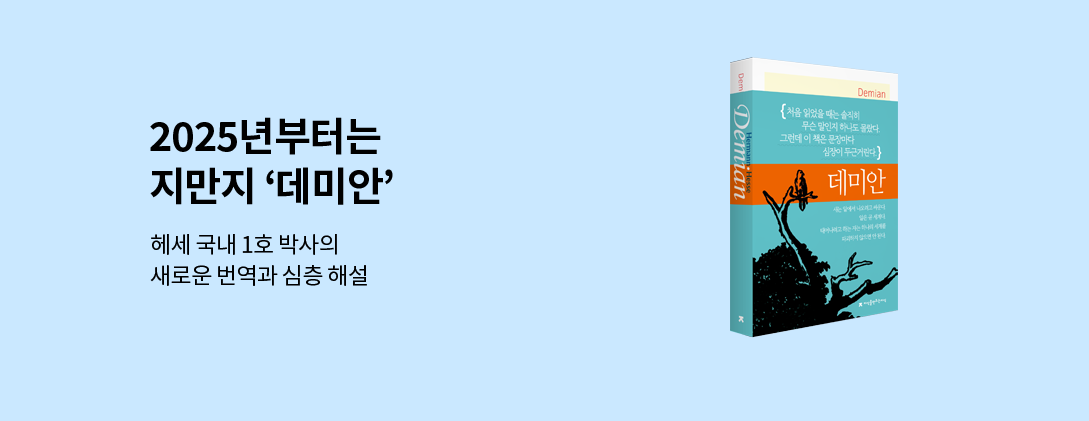
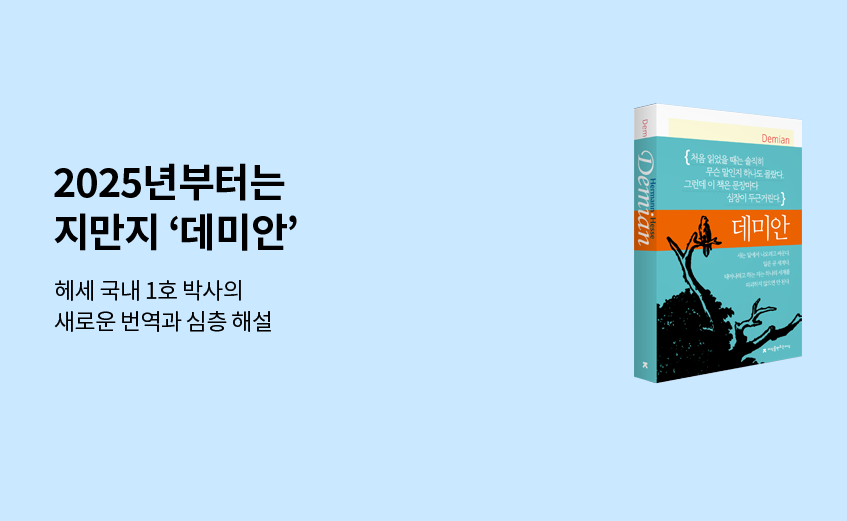
enhance: 메인화면 배너 크기 설정 변경, 배너 이미지 변경

Changed region(s): [[0.6446, 0.1235, 0.9516, 0.8029], [0.0614, 0.2779, 0.3684, 0.4941], [0.0614, 0.5249, 0.3377, 0.6793]]

diff --git a/bible_vue/src/components/MainPage/components/Main.vue b/bible_vue/src/components/MainPage/components/Main.vue
@@ -11,12 +11,12 @@
       <div class="carousel">
         <div class="main-image" :style="{ backgroundImage: `url(${images[currentSlide]})` }"
             @touchstart="touchStart" @touchmove="touchMove" @touchend="touchEnd"></div>
-        
-        <div class="pagination">
-          <span v-for="(image, index) in images" :key="index" class="dot" 
-              :class="{ active: currentSlide === index }" @click="setSlide(index)"></span>
-        </div>             
       </div>
+      <div class="pagination">
+        <span v-for="(image, index) in images" :key="index" class="dot" 
+            :class="{ active: currentSlide === index }" @click="setSlide(index)"></span>
+      </div>             
+      
 
       <div class="main-best">
         <h3>베스트 셀러</h3>
@@ -151,19 +151,22 @@ body, ul, li {
 
 /* Main Content */
 .carousel{
+   display: flex;
+  justify-content: center; /* 가운데 정렬 */
+  align-items: center;
   width: 100%;
   max-width: 100%;
   overflow: hidden;
-  margin: 0;
+  margin-top: 5px;
   padding: 0;
 }
 
 .main-image {
-  width: auto;
-  height: 50vh; /* 뷰포트 높이의 50%로 설정 */
+  height: 100%;
+  width: 150%;
   background-color: #f0f0f0;
   border-radius: 8px;
-  background-size: cover;
+  background-size: contain;
   background-position: center;
   transition: background-image 0.3s ease;
 }
@@ -172,26 +175,29 @@ body, ul, li {
   display: flex;
   justify-content: center;
   align-items: center;
-  margin-top: 16px;
-  gap: 12px;
+  gap: 0%;
+  height: 1px;
+  margin: 0px;
+  border-radius: 0%;
 }
 
 .dot {
-  width: 12px;
-  height: 12px;
+  width: 5px;
+  height: 5px; 
   background-color: #ccc;
   border-radius: 0%;
   cursor: pointer;
   transition: background-color 0.3s ease, transform 0.3s ease;
+  transform: scale(0.8);
 }
 
 .dot.active {
-  background-color: #333; /* 현재 활성화된 슬라이드 색상 */
-  transform: scale(1.3); /* 활성화된 점을 커지게 */
+  background-color: #333;
+  transform: scale(1);
 }
 
 .dot:not(.active):hover {
-  background-color: #bbb; /* 비활성화된 상태에서 마우스 오버 시 */
+  background-color: #bbb;
 }
 
 /* 모바일 최적화 */
@@ -201,14 +207,10 @@ body, ul, li {
     border-radius: 0;
   }
 
-  .pagination {
-    margin-top: 5px;
-    gap: 6px;
-  }
-
   .dot {
-    width: 6px;
+    width: 1px;
     height: 6px;
+    margin-bottom: 40px;
   }
 }
 
@@ -279,6 +281,7 @@ body, ul, li {
 }
 .main-best h3{
   margin: 15px;
+  margin-top: 30px;
 }
 
 /* 모바일에서 책 아이템 더 적게 표시 */

diff --git a/bible_vue/src/components/MainPage/components/Header.vue b/bible_vue/src/components/MainPage/components/Header.vue
@@ -22,7 +22,7 @@
         </button>
       </div>
       <!-- 사용자 -->
-      <div class="auth-icon" @click="toggleAuthMenu">👤</div>
+      <div class="auth-icon" @click="toggleAuthMenu">···</div>
     </header>
 
     <!-- Auth menu -->
